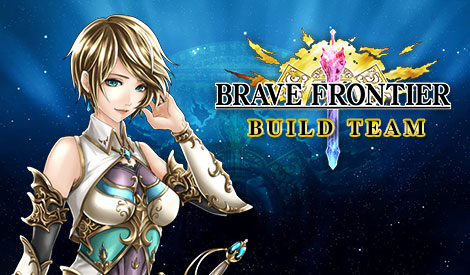
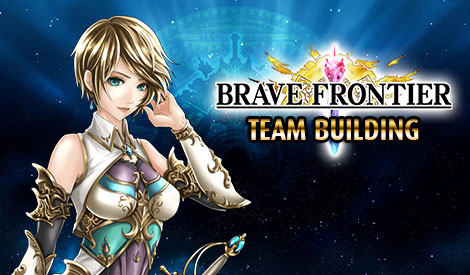
fix text

diff --git a/bravefrontier/list_omni.html b/bravefrontier/list_omni.html
@@ -5,7 +5,7 @@
 <title>Brave Frontier</title>
 <meta name="viewport" content="width=device-width, initial-scale=1">
 <meta property="og:image" content="http://ntttoon.github.io/bravefrontier/images/fb_osb.jpg" />
-<meta property="og:title" content="Brave Frontier OMNI Skill Build" />
+<meta property="og:title" content="Brave Frontier OMNI Skill Building" />
 <meta property="og:description" content="Build and share!" />
 <link rel="stylesheet" href="http://www.w3schools.com/lib/w3.css">
 <link rel="stylesheet" href="http://cdnjs.cloudflare.com/ajax/libs/font-awesome/4.4.0/css/font-awesome.min.css">
@@ -18,7 +18,7 @@
 <div class="w3-top">
  <ul class="w3-navbar w3-teal w3-left-align">
   <li><a href="index.html" class="w3-hover-white"><i class="fa fa-home"></i></a></li>
-  <li class="w3-hide-small" style="margin-top:8px">Simulated OMNI Skill Build</li>
+  <li class="w3-hide-small" style="margin-top:8px">Simulated OMNI Skill Building</li>
  </ul>
 </div>
 <!-- end Navbar -->

diff --git a/bravefrontier/buildteam.html b/bravefrontier/buildteam.html
@@ -5,7 +5,7 @@
 <title>Brave Frontier</title>
 <meta name="viewport" content="width=device-width, initial-scale=1">
 <meta property="og:image" content="http://ntttoon.github.io/bravefrontier/images/fb_bt.jpg" />
-<meta property="og:title" content="Brave Frontier Build Team" />
+<meta property="og:title" content="Brave Frontier Team Building" />
 <meta property="og:description" content="Build and share your team!" />
 <link rel="stylesheet" href="http://www.w3schools.com/lib/w3.css">
 <link rel="stylesheet" href="http://cdnjs.cloudflare.com/ajax/libs/font-awesome/4.4.0/css/font-awesome.min.css">
@@ -652,7 +652,7 @@
 <div class="w3-top">
  <ul class="w3-navbar w3-teal w3-left-align">
   <li><a href="index.html" class="w3-hover-white"><i class="fa fa-home"></i></a></li>
-  <li class="w3-hide-small" style="margin-top:8px">BUILD TEAM</li>
+  <li class="w3-hide-small" style="margin-top:8px">BUILD YOUR TEAM</li>
  </ul>
 </div>
 <!-- end Navbar -->

diff --git a/bravefrontier/unitinfo_osb.html b/bravefrontier/unitinfo_osb.html
@@ -5,7 +5,7 @@
 <title>Brave Frontier</title>
 <meta name="viewport" content="width=device-width, initial-scale=1">
 <meta property="og:image" content="http://ntttoon.github.io/bravefrontier/images/fb_osb.jpg" />
-<meta property="og:title" content="Brave Frontier OMNI Skill Build" />
+<meta property="og:title" content="Brave Frontier OMNI Skill Building" />
 <meta property="og:description" content="Build and share!" />
 <link rel="stylesheet" href="http://www.w3schools.com/lib/w3.css">
 <link href="https://fonts.googleapis.com/icon?family=Material+Icons" rel="stylesheet">
